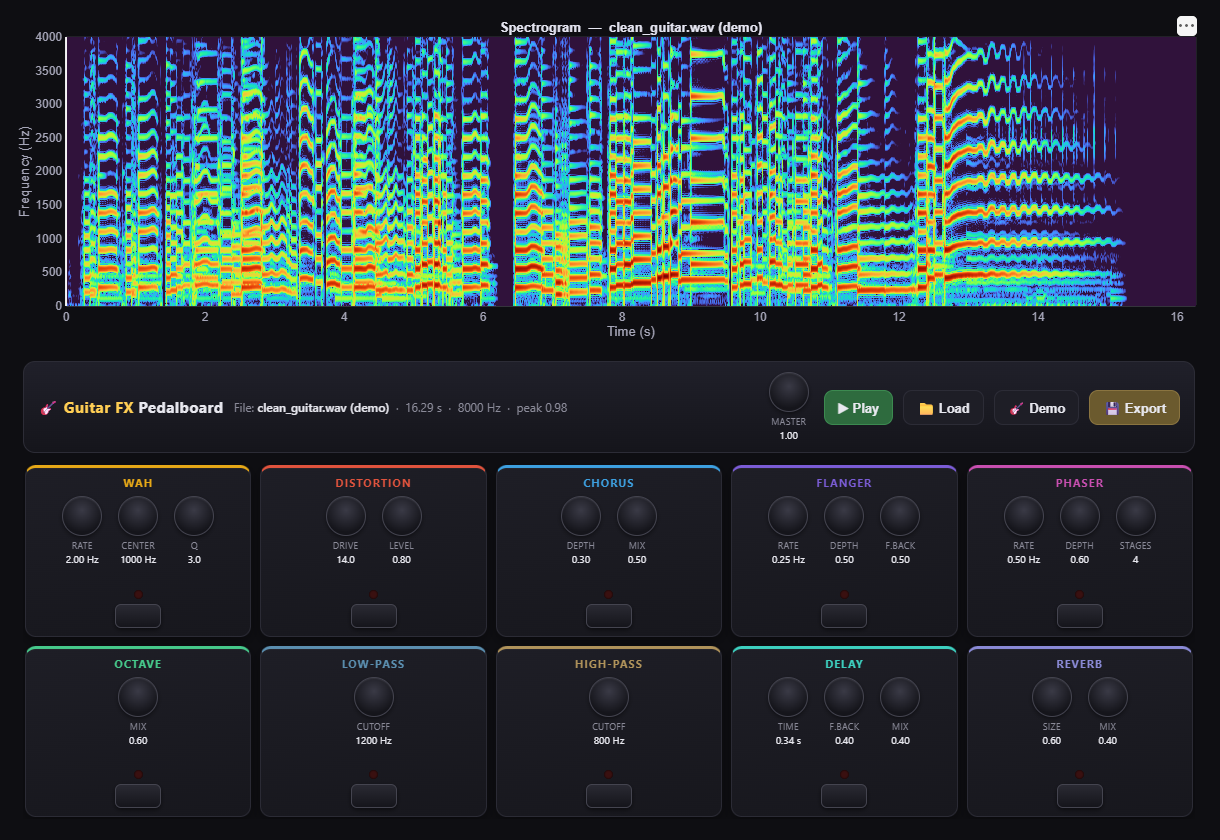
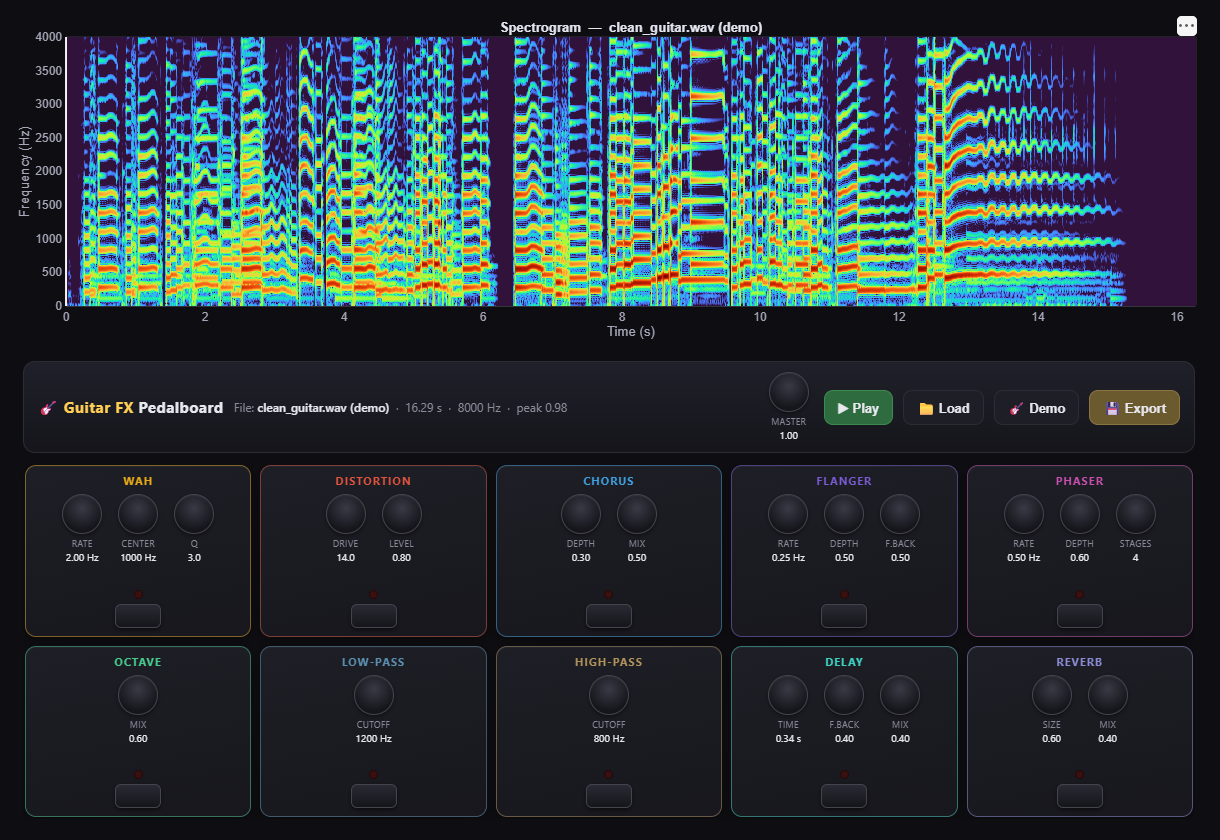
Update the app using the update UIHTML App Skill

diff --git a/app/pedalboard.html b/app/pedalboard.html
@@ -78,8 +78,7 @@
     }
     .pedal {
         background: linear-gradient(170deg, var(--panel2), var(--panel));
-        border: 1px solid var(--edge);
-        border-top: 3px solid var(--pcolor, #555);
+        border: 1px solid color-mix(in srgb, var(--pcolor, #555) 45%, var(--edge));
         border-radius: 11px;
         padding: 7px 8px 8px;
         display: flex; flex-direction: column; align-items: center;
@@ -142,6 +141,18 @@
     .toast.show { opacity: 1; }
     ::-webkit-scrollbar { width: 9px; height: 9px; }
     ::-webkit-scrollbar-thumb { background: #33333d; border-radius: 5px; }
+
+    /* ---- Keyboard focus + reduced motion (accessibility) ---- */
+    .knob:focus-visible { outline: 2px solid var(--accent); outline-offset: 3px; }
+    .stomp:focus-visible,
+    .btn:focus-visible   { outline: 2px solid var(--accent); outline-offset: 2px; }
+    @media (prefers-reduced-motion: reduce) {
+        *, *::before, *::after {
+            animation-duration: .01ms !important;
+            animation-iteration-count: 1 !important;
+            transition-duration: .01ms !important;
+        }
+    }
 </style>
 </head>
 <body>
@@ -211,6 +222,11 @@ function makeKnob(knobId, p) {
     cell.className = 'knob-cell';
     const knob = document.createElement('div');
     knob.className = 'knob';
+    knob.tabIndex = 0;
+    knob.setAttribute('role', 'slider');
+    knob.setAttribute('aria-label', p.label);
+    knob.setAttribute('aria-valuemin', p.min);
+    knob.setAttribute('aria-valuemax', p.max);
     const lab = document.createElement('div');
     lab.className = 'knob-label';
     lab.textContent = p.label;
@@ -221,7 +237,10 @@ function makeKnob(knobId, p) {
     function render() {
         const frac = (values[knobId] - p.min) / (p.max - p.min);
         knob.style.setProperty('--ang', (-135 + 270 * frac) + 'deg');
-        val.textContent = fmt(values[knobId], p.step) + (p.unit ? ' ' + p.unit : '');
+        const txt = fmt(values[knobId], p.step) + (p.unit ? ' ' + p.unit : '');
+        val.textContent = txt;
+        knob.setAttribute('aria-valuenow', values[knobId]);
+        knob.setAttribute('aria-valuetext', txt);
     }
     function setVal(v) {
         v = Math.min(p.max, Math.max(p.min, v));
@@ -254,6 +273,22 @@ function makeKnob(knobId, p) {
     knob.addEventListener('pointerup', endDrag);
     knob.addEventListener('pointercancel', endDrag);
     knob.addEventListener('dblclick', () => { setVal(p.def); sendNow(); });
+    // Keyboard: arrows nudge by one step, PageUp/Down by ten, Home/End to min/max
+    knob.addEventListener('keydown', e => {
+        let d = 0;
+        switch (e.key) {
+            case 'ArrowUp': case 'ArrowRight':  d =  p.step;      break;
+            case 'ArrowDown': case 'ArrowLeft': d = -p.step;      break;
+            case 'PageUp':    d =  p.step * 10;                   break;
+            case 'PageDown':  d = -p.step * 10;                   break;
+            case 'Home': setVal(p.min); scheduleSend(); e.preventDefault(); return;
+            case 'End':  setVal(p.max); scheduleSend(); e.preventDefault(); return;
+            default: return;
+        }
+        setVal(values[knobId] + d);
+        scheduleSend();
+        e.preventDefault();
+    });
     return cell;
 }
 
@@ -281,9 +316,14 @@ function build() {
         fs.className = 'footswitch';
         const stomp = document.createElement('div');
         stomp.className = 'stomp';
+        stomp.tabIndex = 0;
+        stomp.setAttribute('role', 'switch');
+        stomp.setAttribute('aria-checked', 'false');
+        stomp.setAttribute('aria-label', ped.name + ' pedal');
         const led = document.createElement('div');
         led.className = 'led';
         stomp.onclick = () => toggle(ped.id);
+        stomp.onkeydown = e => { if (e.key === ' ' || e.key === 'Enter') { e.preventDefault(); toggle(ped.id); } };
         fs.append(led, stomp);
         el.appendChild(fs);
 
@@ -296,7 +336,9 @@ function build() {
 
 function toggle(id) {
     pedalOn[id] = !pedalOn[id];
-    document.getElementById('pedal-' + id).classList.toggle('on', pedalOn[id]);
+    const el = document.getElementById('pedal-' + id);
+    el.classList.toggle('on', pedalOn[id]);
+    el.querySelector('.stomp').setAttribute('aria-checked', pedalOn[id] ? 'true' : 'false');
     sendNow();
 }
 

diff --git a/README.md b/README.md
@@ -20,7 +20,7 @@ Each effect is implemented from scratch using basic signal processing equations 
 
 ## 🎛️ Interactive Pedalboard App
 
-An interactive app turns these effects into a playable pedalboard. Launch it in MATLAB (R2025a+):
+An interactive app turns these effects into a playable pedalboard. Launch it in MATLAB (R2025a or newer):
 
 ```matlab
 addpath('app')
@@ -29,14 +29,47 @@ guitarFXApp
 
 ![Guitar FX Pedalboard](app/screenshot.png)
 
-Features:
-- **Load / Demo** — open your own `.wav` (stereo is summed to mono) or start from the bundled `clean_guitar.wav` demo.
-- **Stompbox knobs** — drag the rotary knobs (hold **Shift** for fine control, **double-click** to reset) and tap each footswitch LED to engage a pedal. Pedals are chained in classic order: Wah → Distortion → Chorus → Flanger → Phaser → Octave → Low-Pass → High-Pass → Delay → Reverb → Master.
-- **Live spectrogram** — the time–frequency view redraws as you turn knobs, with a playhead that sweeps in real time during playback.
-- **Play** — audition the processed sound.
-- **Export** — render the current settings to a new `.wav`. What you hear is exactly what's written.
+The front end (`pedalboard.html`) is plain HTML/CSS/JS rendered inside a MATLAB `uihtml` component; MATLAB does the DSP and plays the audio. Turning a knob or tapping a footswitch sends the whole pedal configuration to MATLAB, which re-renders the chain and redraws the spectrogram.
 
-All app code lives in [`app/`](app): the DSP in [`gfxApplyChain.m`](app/gfxApplyChain.m) (parametric versions of the `Guitar_FX.m` effects), the UI in [`pedalboard.html`](app/pedalboard.html), and the wiring in [`guitarFXApp.m`](app/guitarFXApp.m). Run [`app/gfx_selftest.m`](app/gfx_selftest.m) to validate the effect chain headlessly. The demo clip `clean_guitar.wav` stays in the repo root (shared with `Guitar_FX.m`).
+### Controls
+
+| Control | What it does |
+|---|---|
+| **Load** | Open your own `.wav` (stereo is summed to mono). |
+| **Demo** | Load the bundled `clean_guitar.wav`. |
+| **Play / Stop** | Audition the processed sound. The button turns red while playing. |
+| **Export** | Render the current settings to a new `.wav`. What you hear is what gets written. |
+| **Master** | Output gain, in the top bar. |
+| **Knobs** | Drag up or down to set a value. Hold **Shift** for fine control; **double-click** to reset to default. |
+| **Footswitch** | Tap the switch (the LED lights) to engage a pedal. |
+
+### Keyboard and accessibility
+
+Every knob and footswitch is keyboard-operable:
+
+- **Tab** moves between knobs, footswitches, and buttons, with a focus ring on the active control.
+- On a knob: **↑ / ↓** (or **← / →**) nudge by one step, **PageUp / PageDown** by ten steps, **Home / End** jump to min and max. Knobs expose their value to screen readers as ARIA sliders.
+- On a footswitch: **Space** or **Enter** toggles the pedal.
+- Motion respects `prefers-reduced-motion`.
+
+### Signal chain
+
+Pedals run in classic front-of-amp then FX-loop order:
+
+> Wah → Distortion → Chorus → Flanger → Phaser → Octave → Low-Pass → High-Pass → Delay → Reverb → Master
+
+Bypassed pedals are skipped, so only the engaged effects shape the sound. The live spectrogram redraws whenever a control changes, and a playhead sweeps across it during playback.
+
+### Files
+
+All app code lives in [`app/`](app):
+
+- [`pedalboard.html`](app/pedalboard.html) — the UI (self-contained HTML/CSS/JS).
+- [`gfxApplyChain.m`](app/gfxApplyChain.m) — the DSP: parametric versions of the `Guitar_FX.m` effects.
+- [`guitarFXApp.m`](app/guitarFXApp.m) — the wiring between the UI and MATLAB.
+- [`gfx_selftest.m`](app/gfx_selftest.m) — validates the effect chain headlessly, with no UI.
+
+The demo clip `clean_guitar.wav` stays in the repo root, shared with `Guitar_FX.m`.
 
 ---
 